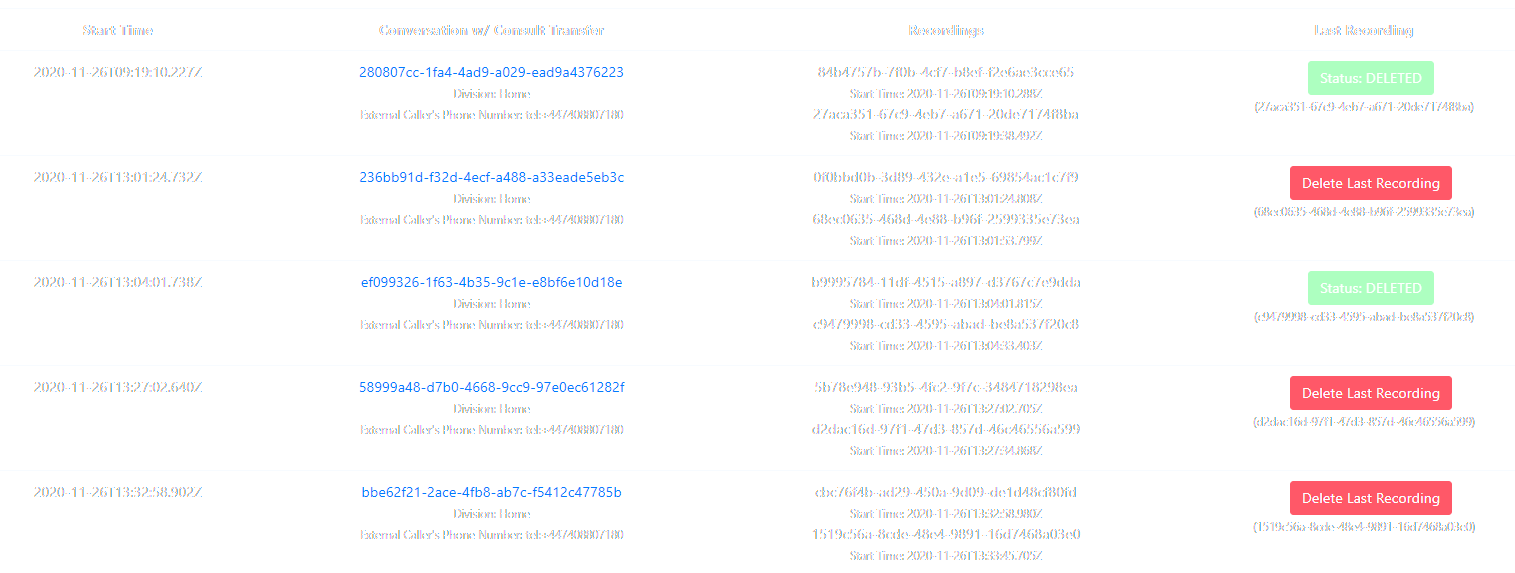
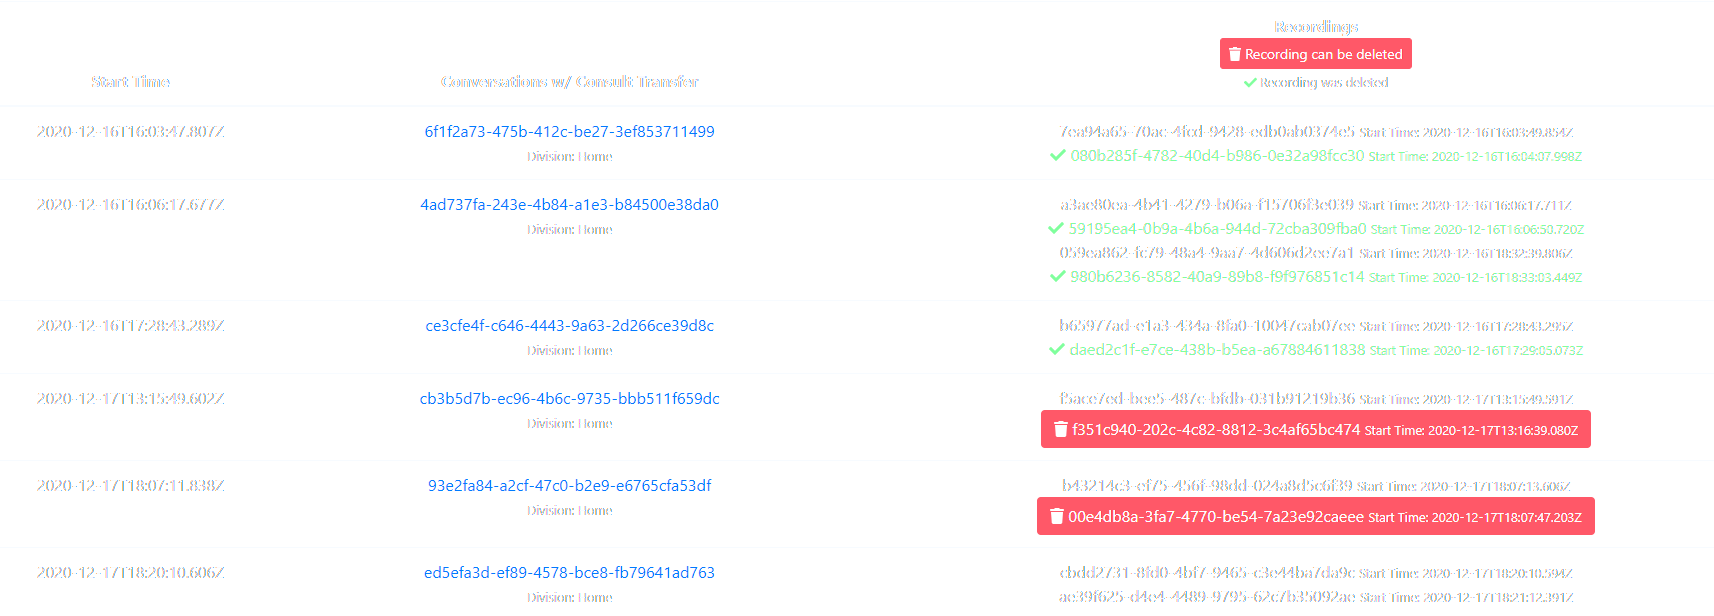
Improve table layout

diff --git a/recordings.js b/recordings.js
@@ -1,5 +1,11 @@
 'use strict';
 
+// let startDate = "2020-10-14T00:00:00Z"; // Date when this bug started
+// let endDate = new Date().toISOString();
+
+let startDate = "2020-12-16T00:00:00Z";
+let endDate = "2020-12-17T00:00:00Z";
+
 //#region Initialization
 
 let results = {};
@@ -22,10 +28,12 @@ $('#sandbox-container .input-daterange').datepicker({
   todayHighlight: true
 });
 
+// Set start date
+$("#start").val(startDate);
 // Set end date to today's date
-$("#end").val(new Date().toISOString());
+$("#end").val(endDate);
 
-$('#myActivityModal').on('shown.bs.modal', function (e) {
+$('#myActivityModal').on('shown.bs.modal', function () {
   // do something...
   getMyActivity('today');
 });
@@ -196,20 +204,25 @@ function filterConversations(phoneNumber) {
       for await (const conversation of results.conversations) {
         // Init
         conversation.qualifiedSessionIds = [];
+        console.log(`Conversation: ${conversation.conversationId} - Starting analysis...`);
 
         // Find all conversations with purpose set to 'customer' or 'external'
         let participants = conversation.participants.filter(p => p.purpose === 'customer' || p.purpose === 'external');
-        console.log('Participants with purpose set to customer or external:', participants);
+        console.log(`Conversation: ${conversation.conversationId} - Participants with purpose set to customer or external: `, participants);
 
         for await (const participant of participants) {
           // Any external transfers?
           let externalTransferSessions = participant.sessions.filter(s => s.dnis !== s.sessionDnis);
-          console.log('External Transfer Sessions:', externalTransferSessions);
+          if (externalTransferSessions.length > 0) {
+            console.log(`Conversation: ${conversation.conversationId} - Participant: ${participant.participantId} - Found session(s) with an external transfer:`, externalTransferSessions);
+          } else {
+            console.log(`Conversation: ${conversation.conversationId} - Participant: ${participant.participantId} - No sessions found with an external transfer`);
+            continue; // Next participant
+          }
 
           for await (const externalTransferSession of externalTransferSessions) {
             // Is last segment has 'segmentType' set to 'interact'?
             let lastSegment = externalTransferSession.segments[externalTransferSession.segments.length - 1];
-            console.log('Last session\'s segment is interact?', lastSegment.segmentType === 'interact');
             if (lastSegment.segmentType === 'interact') {
               // If phoneNumber is set, ignore segments that were not transferred to that phone number
               if (phoneNumber && phoneNumber !== externalTransferSession.sessionDnis) {
@@ -218,12 +231,12 @@ function filterConversations(phoneNumber) {
 
               // Conversation qualifies. Keep the session id for reference (need it later on to find out which recordings need to be deleted)
               conversation.qualifiedSessionIds.push(externalTransferSession.sessionId);
-              console.log('Session id to delete:', externalTransferSession.sessionId);
+              console.log(`Conversation: ${conversation.conversationId} - Participant: ${participant.participantId} - Session: ${externalTransferSession.sessionId} - Recording for this session needs to be deleted (segmentType = 'interact')`);
             }
           }
         }
       }
-      console.log('After Filtering Conversations:', results);
+      console.log('Filtered Conversations:', results.conversations);
       return resolve();
     } catch (error) {
       return reject(error);
@@ -245,11 +258,14 @@ function getRecordingIds() {
       for await (const conversation of results.conversations) {
         try {
           let data = await callAPI('GET', `conversations/${conversation.conversationId}/recordings?maxWaitMs=5000&formatId=WEBM`);
-          console.debug('Got recording data:', data);
+          console.debug('Got recording data for conversation ' + conversation.conversationId + ':', data);
           conversation.recordings = data;
 
+          // Sort recordings by startTime
+          data.sort((a, b) => (a.startTime > b.startTime) ? 1 : -1);
+
+          // If recording session id is one of the qualified session ids, mark it for deletion
           for await (const recording of conversation.recordings) {
-            // If recording session id is one of the qualified session ids, mark it for deletion
             recording.markForDeletion = conversation.qualifiedSessionIds.includes(recording.sessionId);
           }
         } catch (error) {
@@ -260,7 +276,7 @@ function getRecordingIds() {
         }
       }
 
-      console.log('Results with recordings:', results);
+      console.log('Conversations with recordings:', results.conversations);
       return resolve();
     } catch (error) {
       return reject(error);
@@ -280,18 +296,23 @@ async function populateTable() {
 
   for await (const conversation of results.conversations) {
     if (conversation.recordings && conversation.recordings.length > 1) {
+      // Add new row to table
       let conversationRow = $("<tr/>").appendTo("#conversationsTable");
 
-      // Start Time
+      //#region Start Time
+
       $("<td/>").text(conversation.conversationStart).appendTo(conversationRow);
 
-      // Conversation - Id
-      let conversationTd = $("<td/>").appendTo(conversationRow);
-      let conversationDiv = $("<div/>").appendTo(conversationTd);
-      $("<div/>").html(`<a href="https://apps.${environment}/directory/#/engage/admin/interactions/${conversation.conversationId}" target="_blank">${conversation.conversationId}</a>`).appendTo(conversationDiv);
+      //#endregion
 
-      // Conversation - Division
-      let conversationDivisionDiv = $("<div/>").appendTo(conversationDiv);
+      //#region Conversations w/ Consult Transfer
+
+      let conversationTd = $("<td/>").appendTo(conversationRow);
+
+      // Conversation Id
+      $("<div/>").html(`<a href="https://apps.${environment}/directory/#/engage/admin/interactions/${conversation.conversationId}" target="_blank">${conversation.conversationId}</a>`).appendTo(conversationTd);
+
+      // Conversation Division
       for (let index = 0; index < conversation.divisionIds.length; index++) {
         const conversationDivisionId = conversation.divisionIds[index];
 
@@ -308,49 +329,46 @@ async function populateTable() {
             name: data.name
           });
         }
-        $("<small/>").text(`Division: ${divisionName}`).appendTo(conversationDivisionDiv);
+        $("<div/>").html(`<small>Division: ${divisionName}</small>`).appendTo(conversationTd);
       }
 
-      // Conversation - External Phone Number
-      let conversationExternalPhoneNumberDiv = $("<div/>").appendTo(conversationDiv);
-      for (let index = 0; index < conversation.participants.length; index++) {
-        const conversationParticipant = conversation.participants[index];
-        if ((conversationParticipant.purpose === 'customer' || conversationParticipant.purpose === 'external') && conversationParticipant.externalContactId) {
-          let externalPhoneNumber = conversationParticipant.sessions.find(s => s.mediaType === 'voice').ani;
-          $("<small/>").text(`External Caller's Phone Number: ${externalPhoneNumber}`).appendTo(conversationExternalPhoneNumberDiv);
-          $("<br/>").appendTo(conversationExternalPhoneNumberDiv);
-        }
-      }
+      //#endregion
 
-      // Recordings
-      let recordingsTd = $("<td />", {}).appendTo(conversationRow);
+      //#region Recording Ids & Start Times
+
+      let recordingIdsTd = $("<td />").appendTo(conversationRow);
       for await (const recording of conversation.recordings) {
-        let recordingDiv = $("<div/>").appendTo(recordingsTd);
-        $("<div/>").text(recording.id).appendTo(recordingDiv);
+
+        // Delete recording?
         if (recording.markForDeletion) {
-          let deleteRecordingDiv = $("<div/>").appendTo(recordingDiv);
-          // let buttonClass = recording.fileState !== "AVAILABLE" ? "btn-success" : "btn-danger";
-          // let buttonText = recording.fileState !== "AVAILABLE" ? `Status: ${recording.fileState}` : "Delete";
-          // let buttonDisabled = recording.fileState !== "AVAILABLE";
-          if (recording.fileState === 'AVAILABLE') {
-            let deleteButton = $("<a/>", { class: 'btn' }).appendTo(deleteRecordingDiv);
-            $("<i/>", { class: "fas fa-trash text-danger" }).appendTo(deleteButton);
-            deleteButton.on('click', (e) => {
-              e.preventDefault();
-              deleteRecording(conversation.conversationId, recording.id);
-            });
-          } else {
-            $("<i/>", { class: "fas fa-check text-success" }).appendTo(deleteRecordingDiv);
+          // Show recording with a delete button
+          switch (recording.fileState) {
+            case 'DELETED':
+              // Show recording was successfully deleted (fileState is DELETED)
+              $("<div/>", { class: "text-success" }).html(`<i class="fas fa-check"></i> ${recording.id} <small>Start Time: ${recording.startTime}</small>`).appendTo(recordingIdsTd);
+              break;
+            default:
+              // Recording is not deleted
+              let deleteButton = $("<button/>", { class: 'btn btn-danger' }).html(`<i class='fas fa-trash'></i> ${recording.id} <small>Start Time: ${recording.startTime}</small>`).appendTo(recordingIdsTd);
+              deleteButton.on('click', (e) => {
+                e.preventDefault();
+                deleteRecording(conversation.conversationId, recording.id);
+              });
           }
-          //$("<button/>", { class: `btn ml-3 ${buttonClass}`, disabled: buttonDisabled }).text(buttonText).on('click', () => deleteRecording(conversation.conversationId, recording.id)).appendTo(deleteRecordingDiv);
+        } else {
+          // Do not delete recording. Just show it.
+          $("<div/>").html(`${recording.id} <small>Start Time: ${recording.startTime}</small>`).appendTo(recordingIdsTd);
         }
-        let recordingStartTimeDiv = $("<div/>").appendTo(recordingDiv);
-        $("<small/>").text(`Start Time: ${recording.startTime}`).appendTo(recordingStartTimeDiv);
+
+        // Recording Start Times
+        //$("<div />", {}).text(` Start Time: ${recording.startTime}`).appendTo(conversationRow);
       }
+
+      //#endregion
     }
   }
-
 }
+
 
 /**
  * Deletes a recording by setting its deleteDate to a date before today (yesterday by default)

diff --git a/recordings.html b/recordings.html
@@ -97,7 +97,7 @@
     <div>
       <div class="alert alert-info mb-3 mt-3" role="alert">
         The following permissions are required: <strong>Recordings > All Permissions</strong> and <strong>Analytics > All Permissions</strong><br>
-        Recordings will not show as deleted immediately. This will take a few minutes.
+        Recordings will not show as deleted immediately. This will take a few minutes. Recording will still show while GC handles the retention period change.
       </div>
       <div class="alert alert-warning mb-3 mt-3" role="alert">
         WARNING: Once recordings are deleted, they can not be recovered. <strong>Make sure you know what you are doing!</strong>
@@ -111,7 +111,7 @@
           <h6>#1 Select a Date range:</h6>
           <div class="input-daterange input-group mb-1" id="datepicker">
             <span class="input-group-addon ml-2 mr-2">from</span>
-            <input type="text" class="input-sm form-control" name="start" id="start" value="2020-10-14T00:00:00Z">
+            <input type="text" class="input-sm form-control" name="start" id="start">
             <span class="input-group-addon ml-2 mr-2">to</span>
             <input type="text" class="input-sm form-control" name="end" id="end">
           </div>
@@ -135,8 +135,11 @@
       <thead>
         <tr>
           <th scope="col">Start Time</th>
-          <th scope="col">Conversation w/ Consult Transfer</th>
-          <th scope="col">Recordings</th>
+          <th scope="col">Conversations w/ Consult Transfer</th>
+          <th scope="col">Recordings
+            <div><button class="btn btn-sm btn-danger"><i class="fas fa-trash"></i> Recording can be deleted</div></button>
+            <div><small><i class="fas fa-check text-success"></i> Recording was deleted</small></div>
+          </th>
         </tr>
       </thead>
       <tbody id="conversationsTable">

diff --git a/index.html b/index.html
@@ -48,7 +48,7 @@
     </select>
 
     <button class="btn btn-lg btn-primary btn-block" id="login">Login</button>
-    <p class="mt-5 mb-3 text-muted">&copy; Genesys v1.4</p>
+    <p class="mt-5 mb-3 text-muted">&copy; Genesys v1.5</p>
   </form>
 
   <script src="https://code.jquery.com/jquery-3.5.1.min.js"></script>
